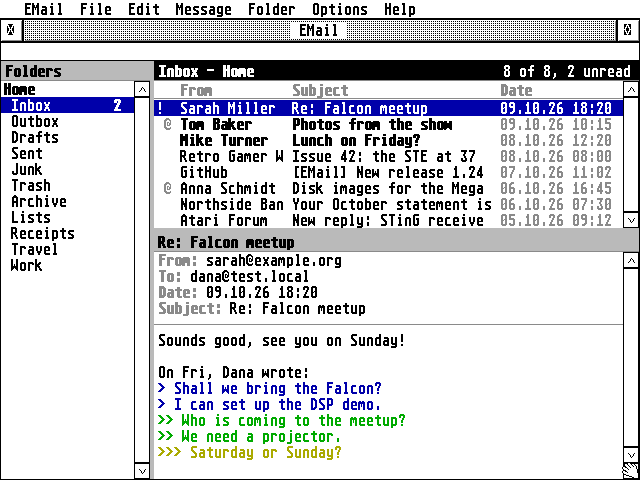
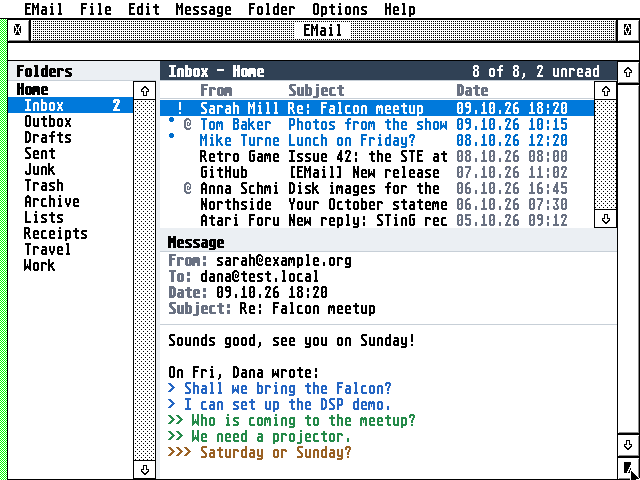
README pictures in 256 colours
Erez (28 Oct, through the hub): the family's pictures in 256 colours, so
they look their best. screenshots.py now takes them on Falcon:256
(machines.py), with the folders pane dragged to 144 pixels in its
EMAIL.INF (PANES=144,0), as a user would: the default 24 characters
since 1.6x left the list's From and Subject cut short at 640 wide.

- docs/screenshot.png: the main window, Sarah's reply open (13 colours
  in use: the UI's pens 0-15 and the quote colours, as in 16 colours).
- docs/settings.png: Settings > Connection over it.
The README's captions say 256 colours. Not changed (the hub's word):
docs/help/WINDOW.IMG and WINDOW.png, the help front page's picture,
until Erez decides on an 8-plane one; the icons. make help builds.

Claude-Session: https://claude.ai/code/session_01H6fmtFFPdJfX259s31dhiu

diff --git a/tests/hatari/screenshots.py b/tests/hatari/screenshots.py
@@ -1,7 +1,8 @@
 #!/usr/bin/env python3
 # SPDX-License-Identifier: GPL-2.0-or-later
 # Copyright (C) 2026 AERA | Erez Yaary
-"""The screenshots in docs/, on an emulated Falcon in 16 colours.
+"""The screenshots in docs/, on an emulated Falcon in 256 colours (Erez,
+28 Oct 2026: the family's pictures in 256 colours).
 
 An inbox of everyday English mail (the Hebrew test messages stay with the
 tests), the time zone Europe/London, a few folders. Saves the main window
@@ -24,7 +25,7 @@ HERE = os.path.dirname(os.path.abspath(__file__))
 ROOT = os.path.normpath(os.path.join(HERE, "..", ".."))
 IMAP, SMTP = 10143, 10025
 
-work, machine, more = rig.cli("Falcon")
+work, machine, more = rig.cli("Falcon:256")
 os.makedirs(work, exist_ok=True)
 srv = os.path.join(work, "srv")
 hd = os.path.join(work, "hd")
@@ -102,7 +103,8 @@ os.makedirs(os.path.join(hd, "AUTO"))
 rig.install_prg(hd)
 rig.fakesting(os.path.join(hd, "AUTO"))
 with open(os.path.join(hd, "EMAIL.INF"), "w", newline="") as f:
-    f.write("[OPTIONS]\r\nTIMEZONE=Europe/London\r\nHEBREW=0\r\nSIGNATURE=Sent from my Falcon\r\n[ACCOUNT]\r\nNAME=Home\r\n"
+    f.write("[OPTIONS]\r\nTIMEZONE=Europe/London\r\nHEBREW=0\r\nSIGNATURE=Sent from my Falcon\r\n"
+            "PANES=144,0\r\n[ACCOUNT]\r\nNAME=Home\r\n"
             "FULLNAME=Dana Falcon\r\nEMAIL=dana@test.local\r\nIN=imap\r\nHOST=127.0.0.1\r\nPORT=%d\r\n"
             "USER=dana\r\nPASS=secret\r\nSMTPHOST=127.0.0.1\r\nSMTPPORT=%d\r\n" % (IMAP, SMTP))
 

diff --git a/README.md b/README.md
@@ -29,7 +29,7 @@ An e-mail program for the Atari ST, STE, TT and Falcon, written in C for GEM.
 - **Any Atari:** TOS 1.04 to 4.x, EmuTOS, MagiC and MiNT, with STinG or MiNTnet, from a 68000 ST in
   medium resolution to a Falcon in 640×480. It runs in TT RAM when the machine has some.
 
-![EMail on a Falcon: folders, the inbox and a message with its quoted reply in colour](docs/screenshot.png)
+![EMail on a Falcon in 256 colours: folders, the inbox and a message with its quoted reply in colour](docs/screenshot.png)
 
 ## Getting started
 
@@ -152,7 +152,7 @@ took EFTP's downloads from 40 to 75 KB/s.
 - A crash in EMail is caught: an alert, `CRASH.LOG` with what happened, and the Atari keeps running
 - `EMAIL.INF` in capitals, each setting with a note above it
 
-![Settings: a sidebar of parts, here Connection with the time zone by name](docs/settings.png)
+![Settings in 256 colours: a sidebar of parts, here Connection with the time zone by name](docs/settings.png)
 
 ## How it reaches the servers
 
